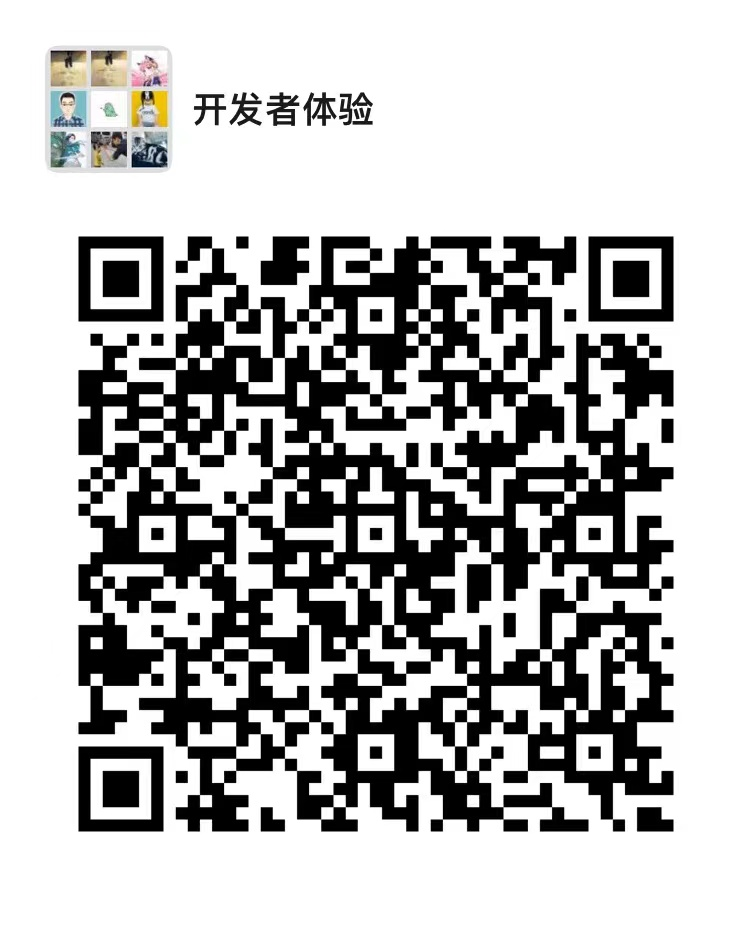
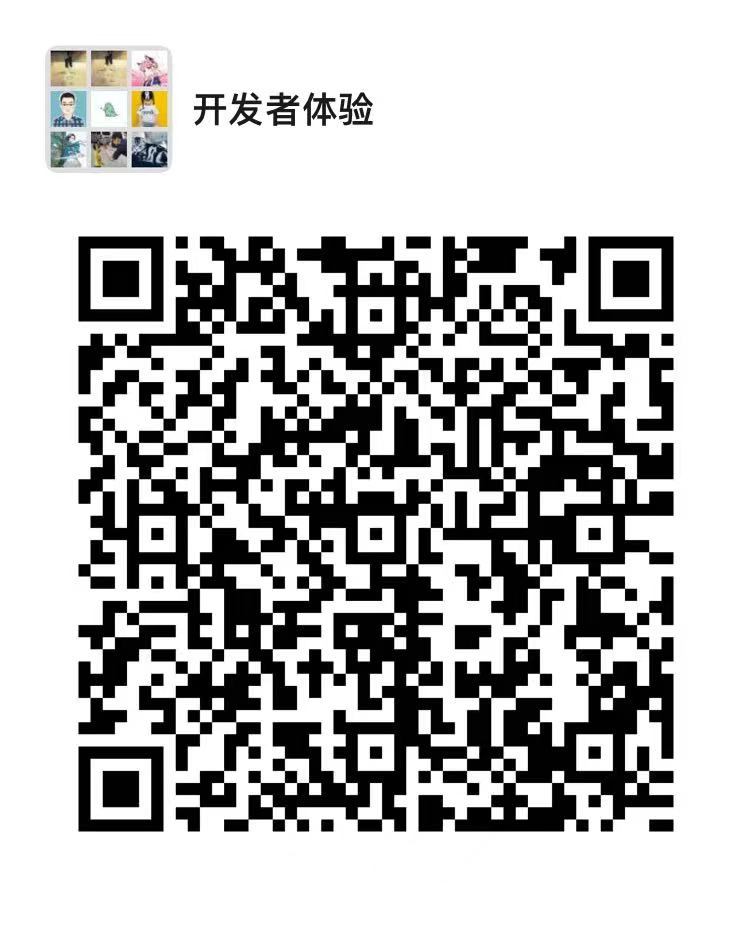
docs: fix qrcode && add wechat id && fixed #5

Changed region(s): [[0.0918, 0.2484, 0.9176, 0.9004]]

diff --git a/README.md b/README.md
@@ -14,9 +14,11 @@
 
 模板：[https://github.com/pmarsceill/just-the-docs](https://github.com/pmarsceill/just-the-docs)
 
-欢迎参与讨论与 PR
+欢迎参与讨论与 PR：
 
 ![Wechat QRCode](image/qrcode.jpg)
+
+（PS：如果群满了，请添加我的微信 `phodal02` ）
 
 ## Todo
 
